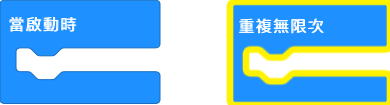
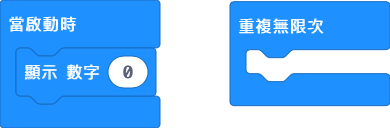
Update main.blocks, main.ts

diff --git a/main.ts b/main.ts
@@ -1,3 +1,4 @@
+basic.showNumber(0)
 basic.forever(function () {
 	
 })
